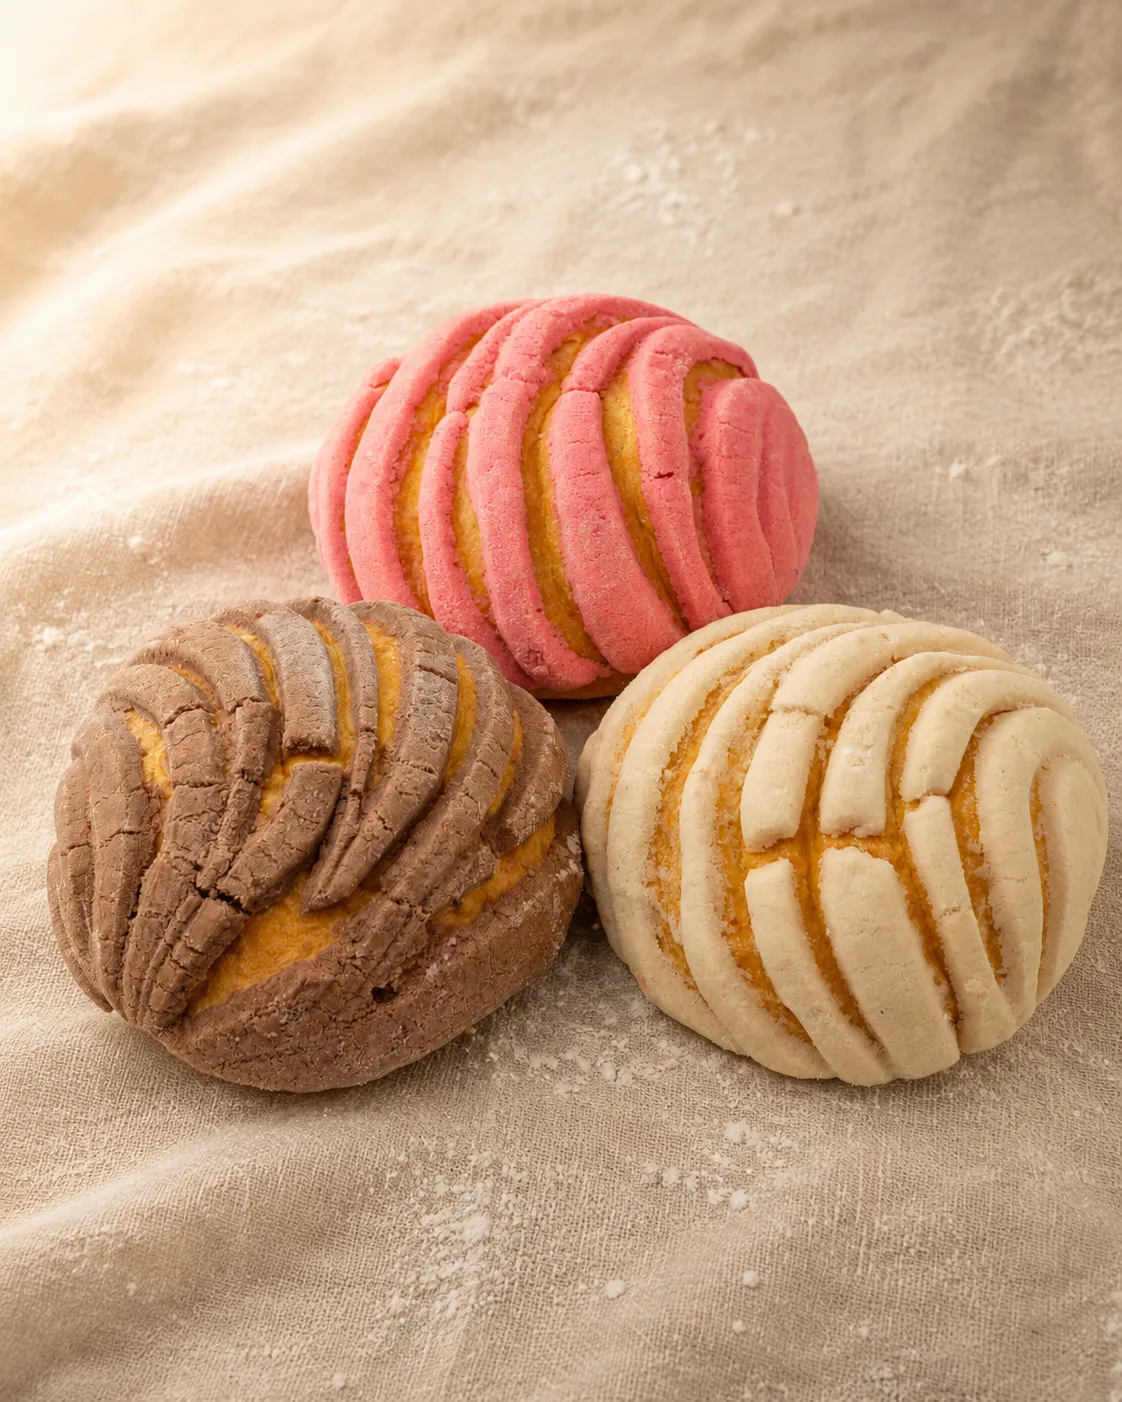
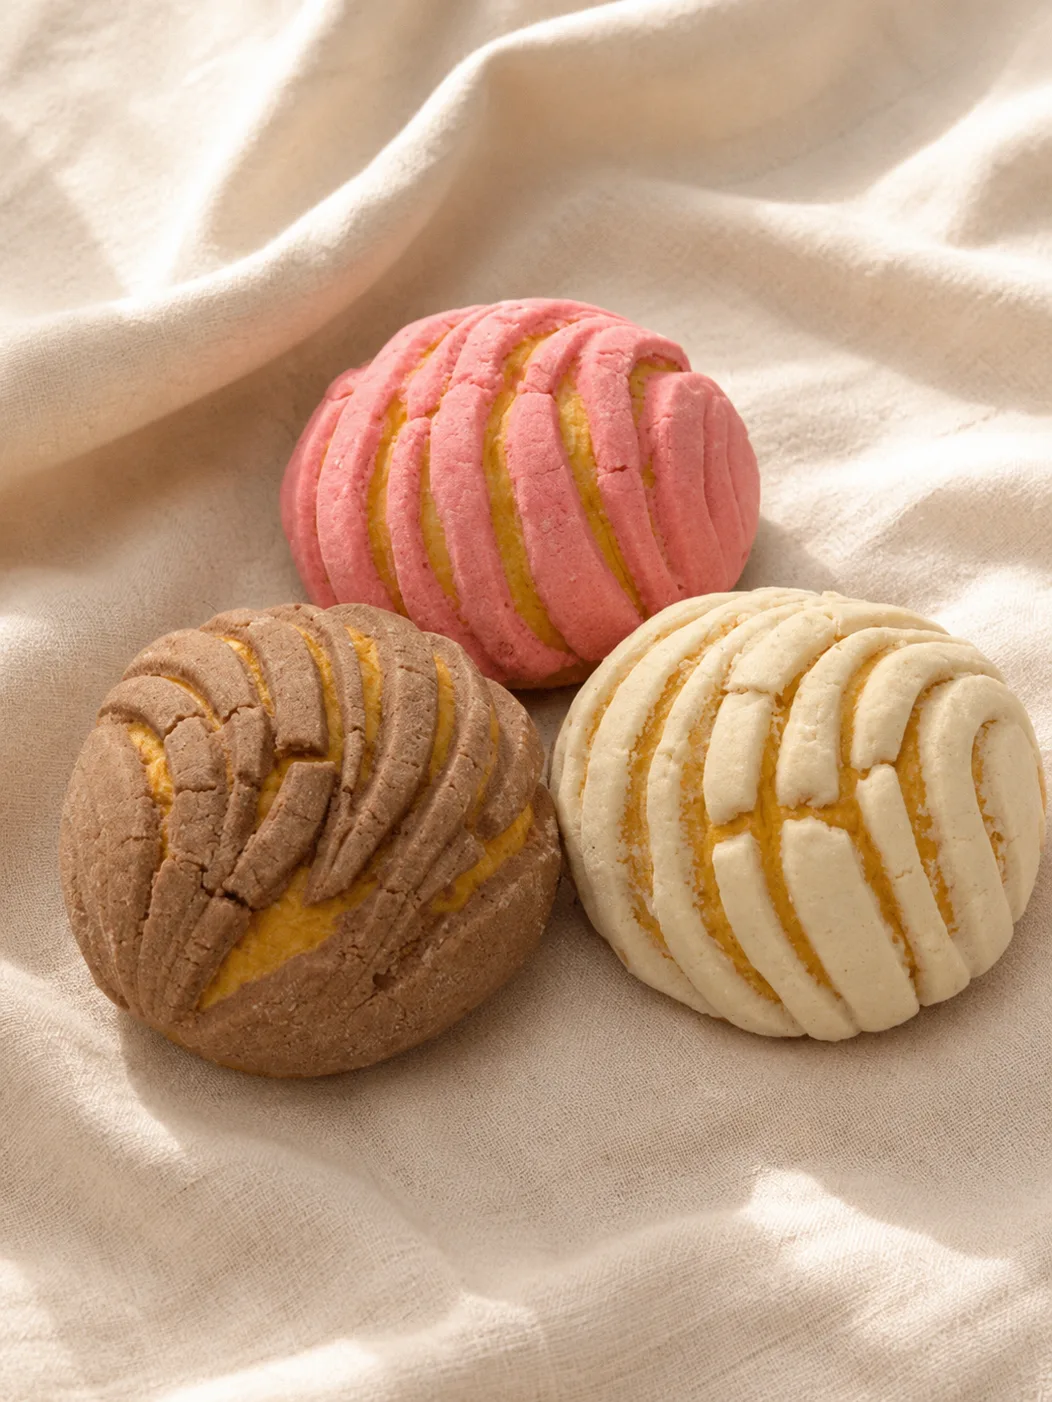
feat(menu): add bundt, concha, flatbread & bun photos
- Bundt Cake: real Apple, Marble, Chocolate photos (replace placeholders/ring-cake stand-in)
- Danishes: add Conchas item + assorted photo
- Breads: add Flatbread item + photo
- Buns & Rolls: relabel to Hotdog Buns / Hamburger Buns (photos were buns, not Italian Rolls/generic buns)

diff --git a/src/data/productPhotoMap.ts b/src/data/productPhotoMap.ts
@@ -54,13 +54,14 @@ const PHOTO_BY_ID: Record<string, Record<string, string>> = {
     'Rye Marble': 'menu/breads/rye-marble-bread.webp',
     'Rye Pumpernickel': 'menu/breads/pumpernickel-bread.webp',
     French: 'menu/breads/french-bread.webp',
-    // Previous photo was actually bow ties/nothings (owner review); awaiting a real Italian Rolls photo.
-    'Italian Rolls': 'photo-coming-soon.svg',
+    'Hotdog Buns': 'menu/breads/hotdog-buns.webp',
     'Rye Rolls': 'menu/breads/rye-rolls.webp',
+    'Hamburger Buns': 'menu/breads/hamburger-buns.webp',
     'Onion Packets & Buns': 'menu/breads/onion-rolls-6-pack.webp',
     Baguettes: 'menu/breads/baguette.webp',
     'Slider Buns': 'menu/breads/slider-buns.webp',
     'Pretzel Buns & Demi Baguettes': 'menu/breads/pretzel-demi-baguettes.webp',
+    Flatbread: 'menu/breads/flatbread.webp',
   },
   'challah-bilkas': {
     Square: 'menu/challah/square-plain-challah.webp',
@@ -110,9 +111,9 @@ const PHOTO_BY_ID: Record<string, Record<string, string>> = {
     Berry: 'menu/cakes-loaf/berry-loaf.webp',
   },
   bundt: {
-    Chocolate: 'menu/cakes-loaf/chocolate-glazed-ring-cake.webp',
-    Apple: 'photo-coming-soon.svg',
-    Marble: 'photo-coming-soon.svg',
+    Chocolate: 'menu/cakes-loaf/chocolate-bundt.webp',
+    Apple: 'menu/cakes-loaf/apple-bundt.webp',
+    Marble: 'menu/cakes-loaf/marble-bundt.webp',
     'Mixed Berry': 'photo-coming-soon.svg',
     Orange: 'photo-coming-soon.svg',
     'Lemon Poppy': 'photo-coming-soon.svg',
@@ -147,6 +148,7 @@ const PHOTO_BY_ID: Record<string, Record<string, string>> = {
     // The four Circle Danishes are merged into one "Assorted Danish" tile.
     'Assorted Danish': 'menu/danishes-babkas/assorted-danish.webp',
     'Bufolo Danish': 'menu/danishes-babkas/bufolo-danish.webp',
+    Conchas: 'menu/danishes-babkas/concha-assorted.webp',
     // Babka section is a single "Assorted" tile.
     Assorted: 'menu/danishes-babkas/assorted-babkas.webp',
   },

diff --git a/src/data/menuDisplay.ts b/src/data/menuDisplay.ts
@@ -55,11 +55,11 @@ export const MENU_GROUPS: MenuDisplayGroup[] = [
       {
         heading: 'Breads',
         assortedImage: '/images/products/menu/breads/assorted-breads.webp',
-        items: ['Wholewheat', 'White', 'Multigrain', 'Rye Plain', 'Rye Kemo', 'Rye Marble', 'Rye Pumpernickel', 'French'],
+        items: ['Wholewheat', 'White', 'Multigrain', 'Rye Plain', 'Rye Kemo', 'Rye Marble', 'Rye Pumpernickel', 'French', 'Flatbread'],
       },
       {
         heading: 'Buns & Rolls',
-        items: ['Italian Rolls', 'Rye Rolls', 'Onion Packets & Buns', 'Baguettes', 'Slider Buns', 'Pretzel Buns & Demi Baguettes'],
+        items: ['Hotdog Buns', 'Rye Rolls', 'Hamburger Buns', 'Onion Packets & Buns', 'Baguettes', 'Slider Buns', 'Pretzel Buns & Demi Baguettes'],
       },
     ],
   },
@@ -162,7 +162,7 @@ export const MENU_GROUPS: MenuDisplayGroup[] = [
     sections: [
       {
         heading: 'Danishes',
-        items: ['Chocolate Danish', 'Icy Buns', 'Assorted Danish', 'Bufolo Danish'],
+        items: ['Chocolate Danish', 'Icy Buns', 'Assorted Danish', 'Bufolo Danish', 'Conchas'],
       },
       {
         heading: 'Babka',
